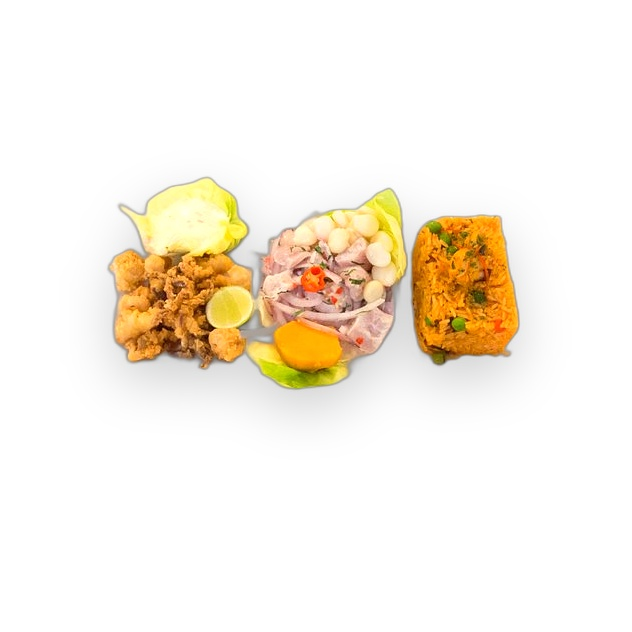
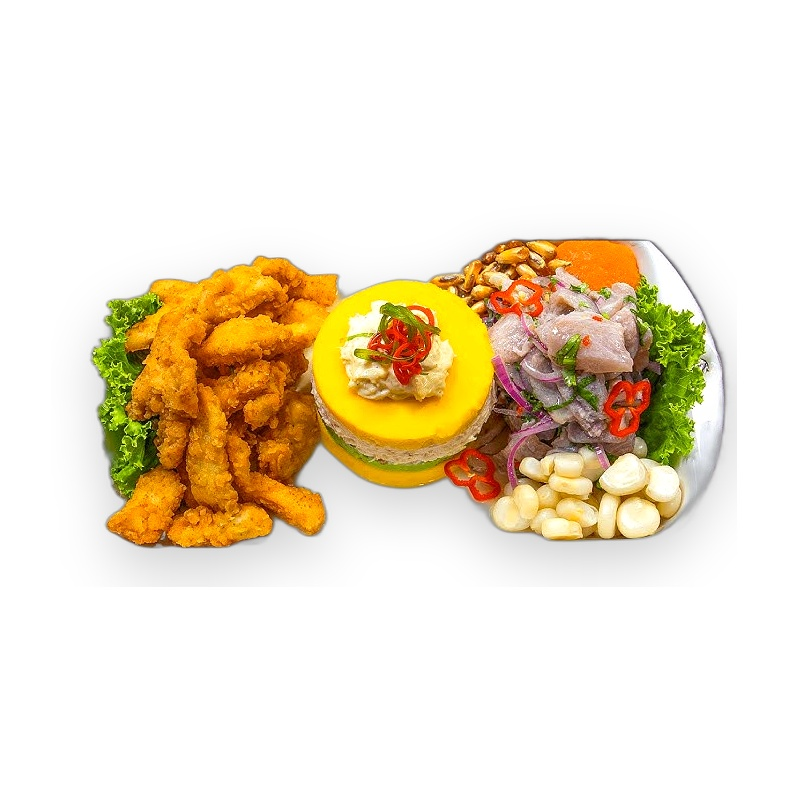
Actualizar imagenes de Trilogias: remover 1 y 2, agregar nuevas 3-9 y corregir mapeo

Changed region(s): [[0.1203, 0.2706, 0.932, 0.7215]]

diff --git a/src/App.tsx b/src/App.tsx
@@ -29,14 +29,13 @@ const LOCAL_IMAGES: Record<string, string> = {
   "Chupe de pescado": "Chupe de pescado.webp",
   "Chupe de cangrejo": "Chupe de cangrejo.jpeg",
   "Chupe de langostino": "Chupe de langostino.jpeg",
-  "Trilogía N° 1": "trilogia 1.webp",
-  "Trilogía N° 2": "trilogia 2.jpg",
-  "Trilogía N° 3": "trilogia 3.jpeg",
+  "Trilogía N° 3": "trilogia 3.webp",
   "Trilogía N° 4": "trilogia 4.jpg",
   "Trilogía N° 5": "trilogia 5.jpeg",
-  "Trilogía N° 6": "trilogia 6.jpeg",
-  "Trilogía N° 7": "trologia 7.png",
-  "Trilogía N° 8": "trilogia 8.jpg",
+  "Trilogía N° 6": "trilogia 6.jpg",
+  "Trilogía N° 7": "trilogia 7.jpeg",
+  "Trilogía N° 8": "trilogia 8.jpeg",
+  "Trilogía N° 9": "Trilogia 9.jpg",
   "Duo Marino 1": "Duo Marino 1.jpeg",
   "Duo Marino 2": "Duo Marino 2.jpeg",
   "Duo Marino 3": "Duo Marino 3.jpeg",